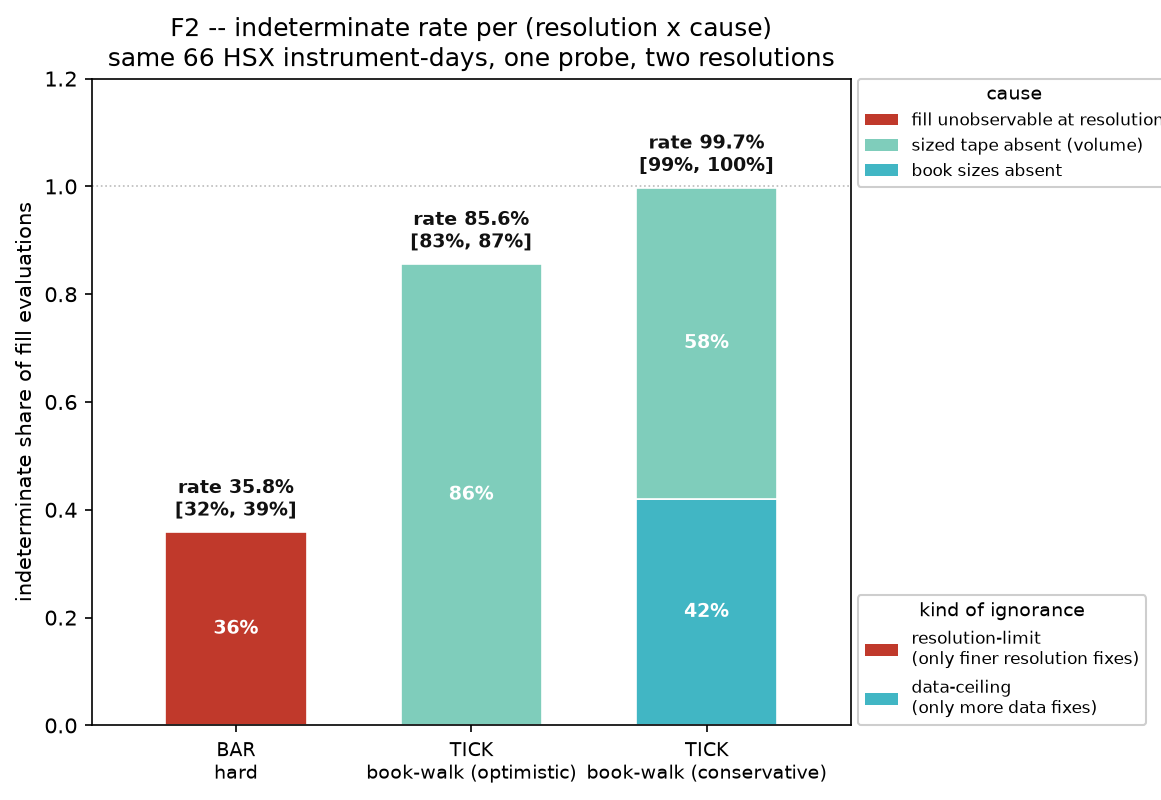
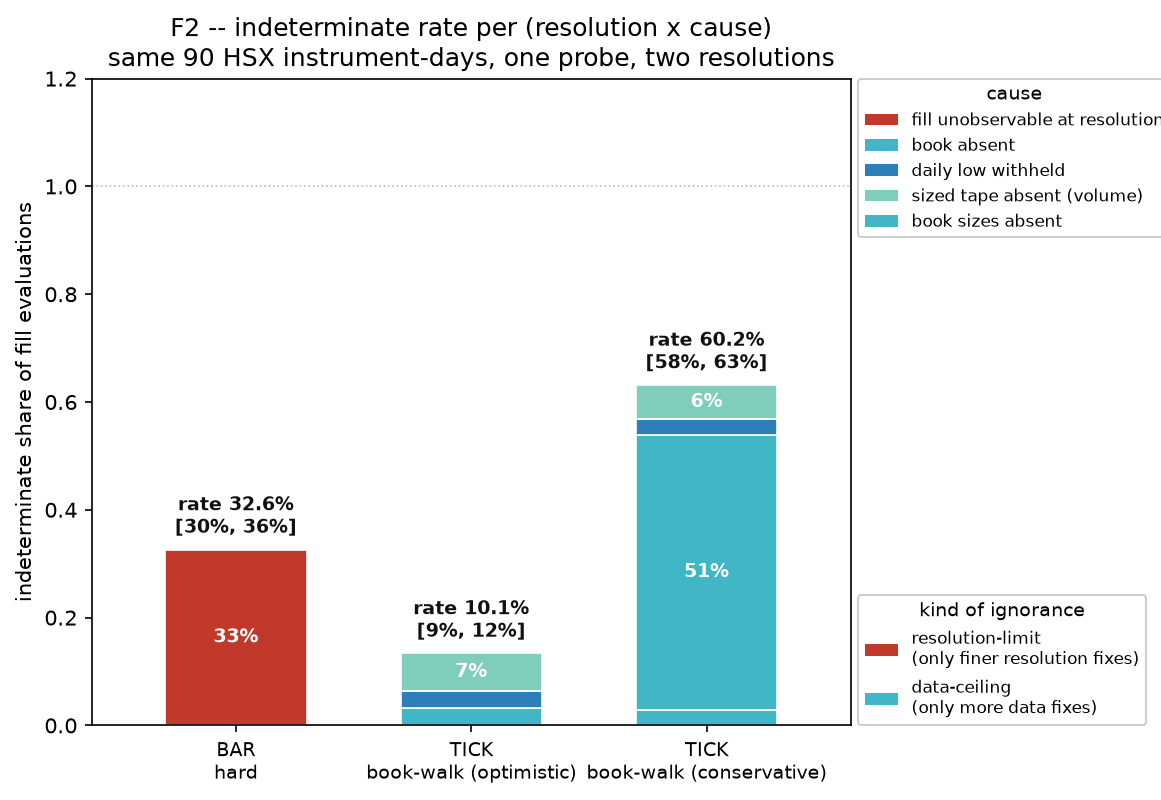
Camera-ready E1 and F2 figure data; audit: band-lock fix, suite green

diff --git a/docs/rivf26/T0-audit.md b/docs/rivf26/T0-audit.md
@@ -293,3 +293,18 @@ The fix corrects contracts added to (or flipped from) a derivatives position aft
   The lot change is a code branch. KRX is 79 rule-data / 20 engine lines. The 2016-09-12 tick change is not
   encoded (the rulebook starts 2020-01-01). See `docs/reference/tables/t8_maintenance_effort.md`.
 - **API listing:** 8 lines, executed by `tests/test_api_listing.py` on the shipped fixture.
+
+## 4h. Band-lock fix and the full unit suite green (2026-11-24)
+
+- **The long-standing failure** `test_a_forced_liquidation_reports_and_executes` was an engine bug introduced in
+  `c9c4c06` (2026-09-11), confirmed by running the test at that commit and the one before. On a bar with a close but
+  no high/low, every order marketable into the band edge was INDETERMINATE, even when the close itself proves the
+  edge was traded through. The forced close is always priced at the floor, so it never filled. Fixed in `68e1c33`:
+  a close strictly inside the band passes through to the fill policy, and a close on the edge stays INDETERMINATE.
+  **E1, F2 and F3 are unchanged** (rerun on the fix).
+- **`test_book_walk.py`** runs on a shipped 207 KB fixture (96 pass, 0 skip; was 18 pass, 80 skip). One re-pin (HTV
+  cross-side skew 259.7 s → 259.086 s; the archive stamps the bid's last size update 0.63 s earlier), checked
+  against the raw rows. The two band-lock-on-book-session tests are strict xfail (LIMITATIONS #1).
+- **Full unit suite: 2,162 passed, 0 failed, 2 xfailed, 453 skipped** (was 1 failed, 533 skipped).
+- `figures/e1_fill_divergence.json` and `figures/f2_indeterminate_rate.png` are regenerated with the camera-ready
+  values (`t4_camera_ready.md`).
